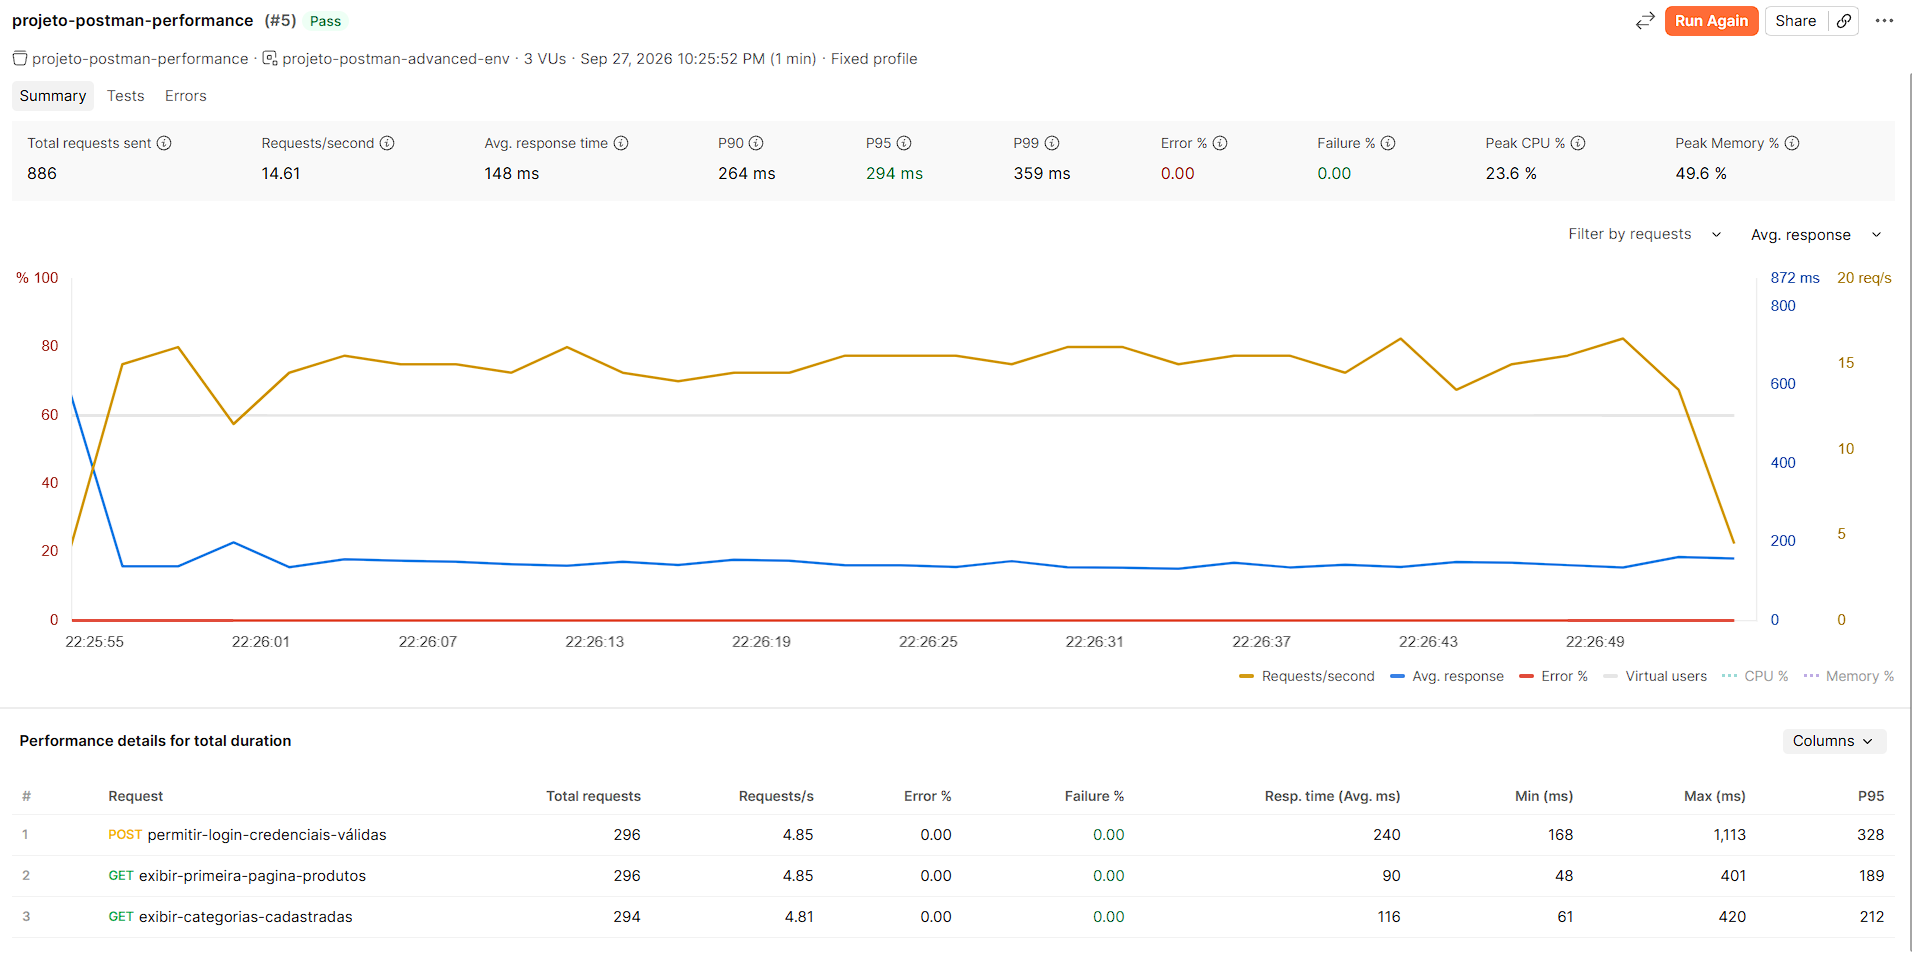
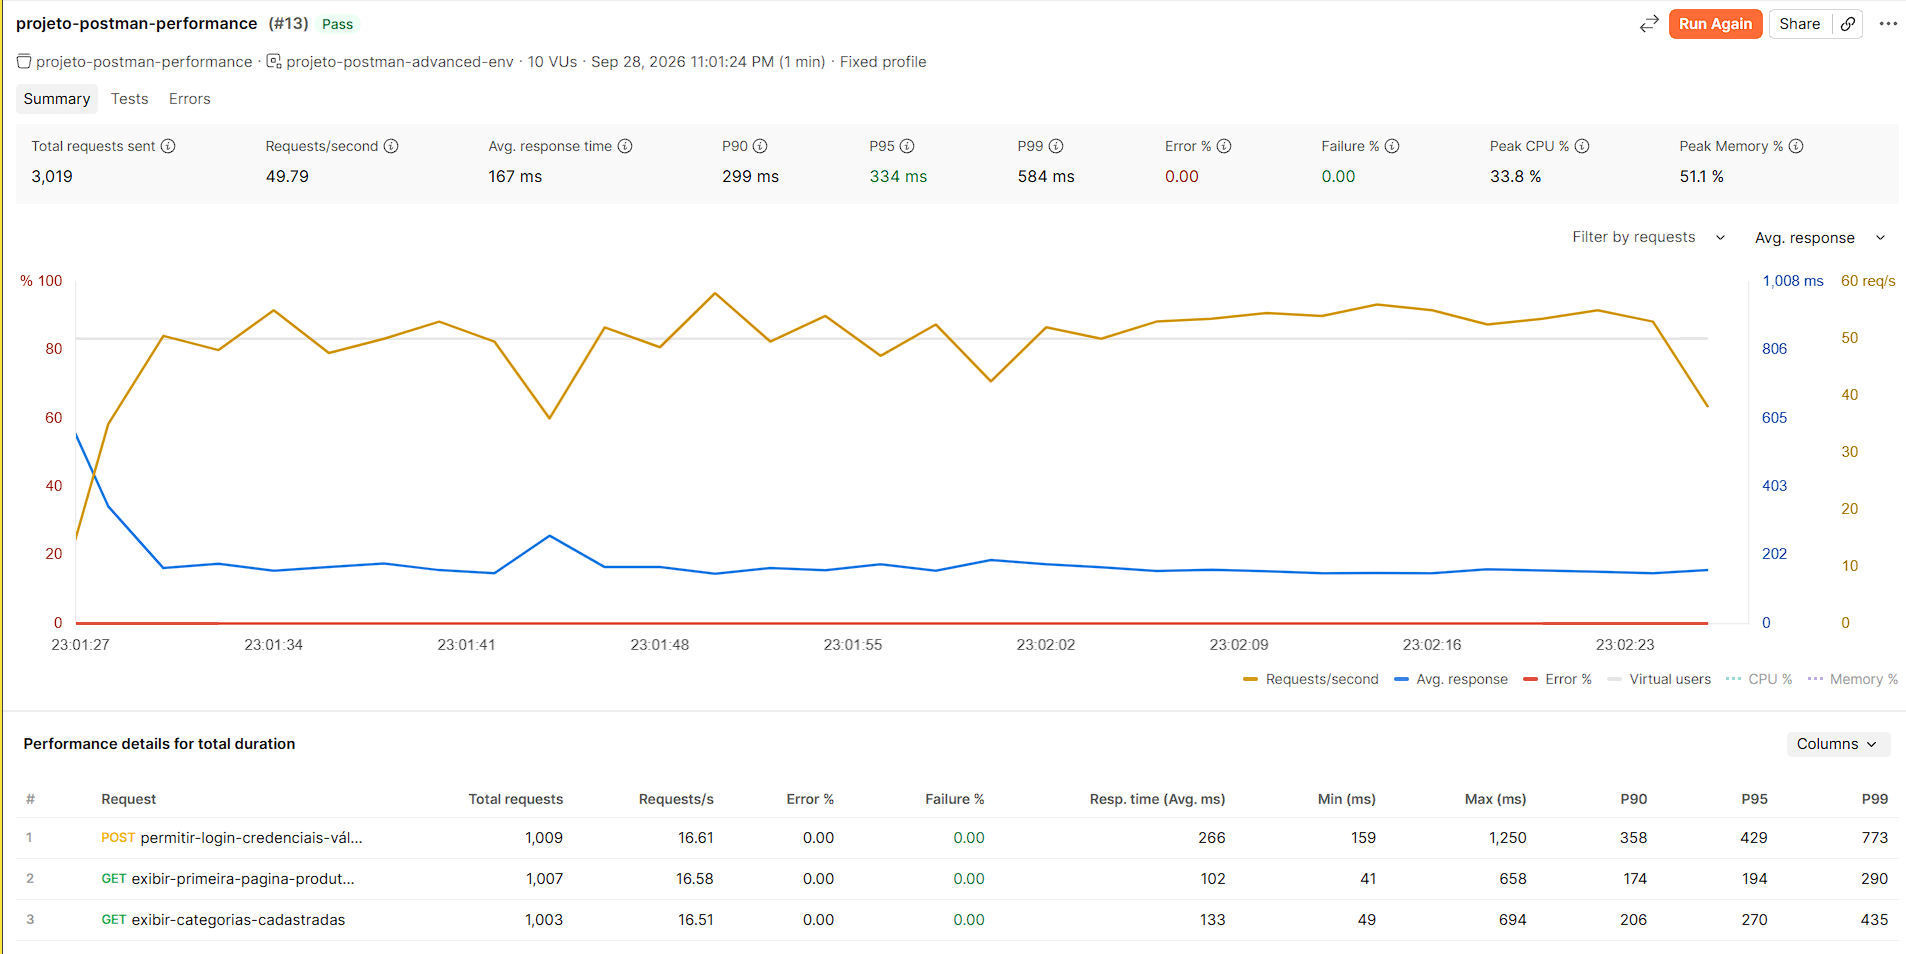
docs: registra teste com ramp-up

diff --git a/evidencias/performance/ramp-up/resultado-ramp-up.md b/evidencias/performance/ramp-up/resultado-ramp-up.md
@@ -1,0 +1,42 @@
+# Evidência de Performance — Perfil Ramp Up
+
+## Configuração
+
+- Collection: projeto-postman-performance
+- Perfil de carga: Ramp Up
+- Usuários virtuais máximos: 10
+- Duração: 1 minuto
+- Critério de aprovação: P95 inferior a 1000 ms
+
+## Resultado geral
+
+- Status: aprovado
+- Total de requisições: 1.768
+- Requisições por segundo: 29,13
+- Tempo médio de resposta: 147 ms
+- P90: 253 ms
+- P95: 285 ms
+- P99: 426 ms
+- Taxa de erros: 0%
+- Taxa de falhas: 0%
+
+## Consumo da máquina geradora da carga
+
+- Pico de CPU: 25,3%
+- Pico de memória: 52,5%
+
+Esses valores representam a máquina que executou o teste e não o servidor da API.
+
+## Análise
+
+O cenário foi aprovado porque o P95 obtido foi de 285 ms, permanecendo abaixo do limite definido de 1.000 ms.
+
+Não foram identificados erros de comunicação nem falhas nas validações funcionais durante a execução.
+
+A carga começou com um usuário virtual, aumentou gradualmente até atingir 10 usuários e permaneceu nesse nível durante a etapa final.
+
+Mesmo com o crescimento progressivo da carga, o tempo médio de resposta permaneceu estável. O gráfico apresentou apenas uma elevação inicial, possivelmente relacionada ao aquecimento da aplicação ou ao estabelecimento das primeiras conexões.
+
+## Evidência visual
+
+![Resultado do teste Ramp Up](resultado-ramp-up.png)

diff --git a/evidencias/performance/fixed/resultado-fixed.md b/evidencias/performance/fixed/resultado-fixed.md
@@ -4,7 +4,7 @@
 
 - Collection: projeto-postman-performance
 - Perfil de carga: Fixed
-- Usuários virtuais: 3
+- Usuários virtuais: 10
 - Duração: 1 minuto
 - Critério de aprovação: P95 inferior a 1.000 ms
 
@@ -14,27 +14,26 @@
 - Total de requisições: 886
 - Requisições por segundo: 14,73
 - Tempo médio de resposta: 150 ms
-- P90: 250 ms
-- P95: 293 ms
-- P99: 497 ms
+- P90: 299 ms
+- P95: 334 ms
+- P99: 584 ms
 - Taxa de erros: 0%
 - Taxa de falhas: 0%
 
 ## Consumo da máquina geradora da carga
 
-- Pico de CPU: 20,5%
-- Pico de memória: 50%
+- Pico de CPU: 33,8%
+- Pico de memória: 51,1%
 
 Esses valores representam a máquina que executou o teste e não o servidor da API.
 
 ## Análise
 
-O cenário foi aprovado porque o P95 obtido foi de 293 ms, permanecendo abaixo do limite definido de 1.000 ms.
+O cenário foi aprovado porque o P95 obtido foi de 334 ms, permanecendo abaixo do limite definido de 1.000 ms.
 
 Não foram identificados erros de comunicação nem falhas nas validações funcionais durante a execução.
 
-A autenticação apresentou os maiores tempos de resposta entre as requisições executadas, com média de 247 ms, P95 de 349 ms
-e tempo máximo de 1.890 ms.
+A autenticação apresentou os maiores tempos de resposta entre as requisições executadas, com média de 167 ms, P95 de 334 ms.
 
 ## Evidência visual
 
